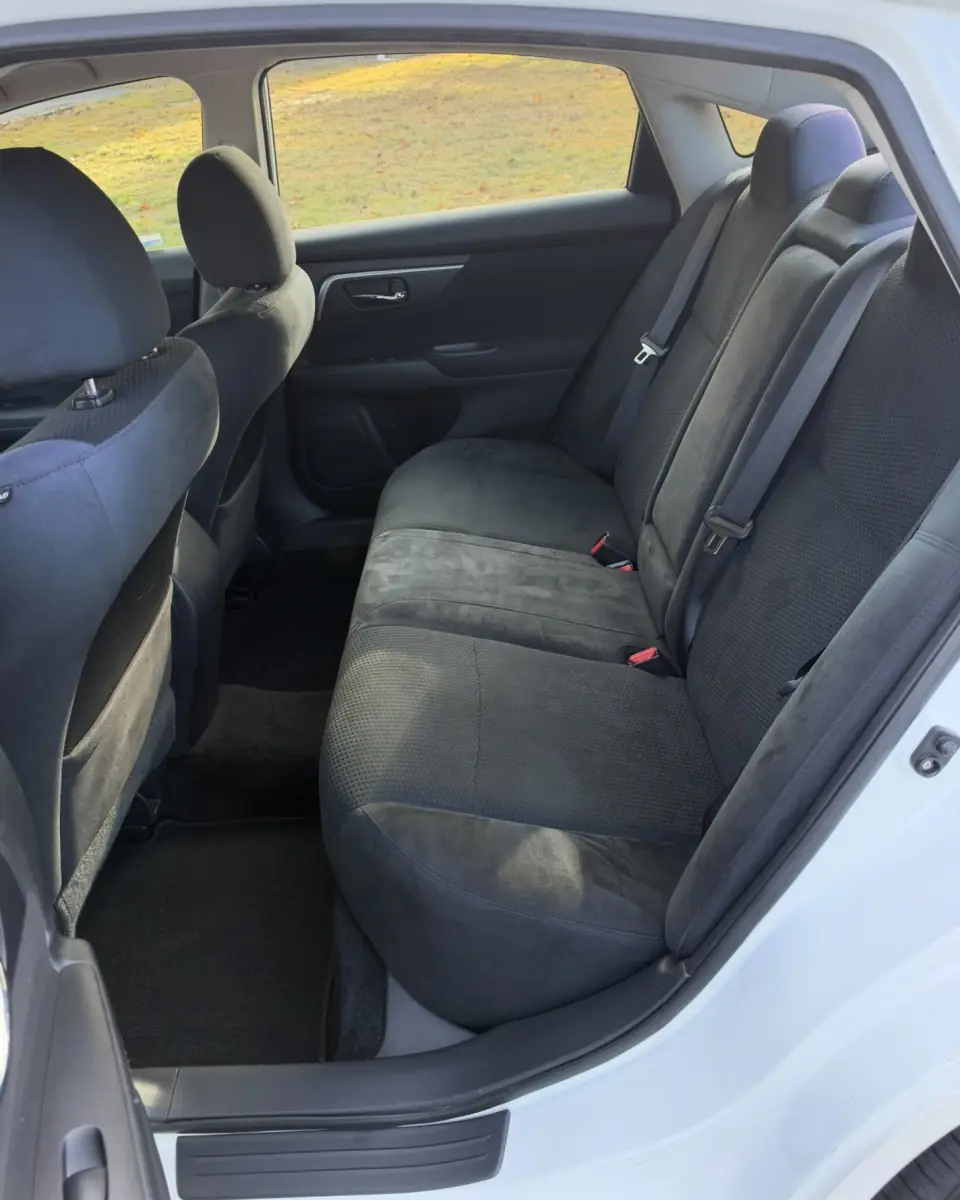
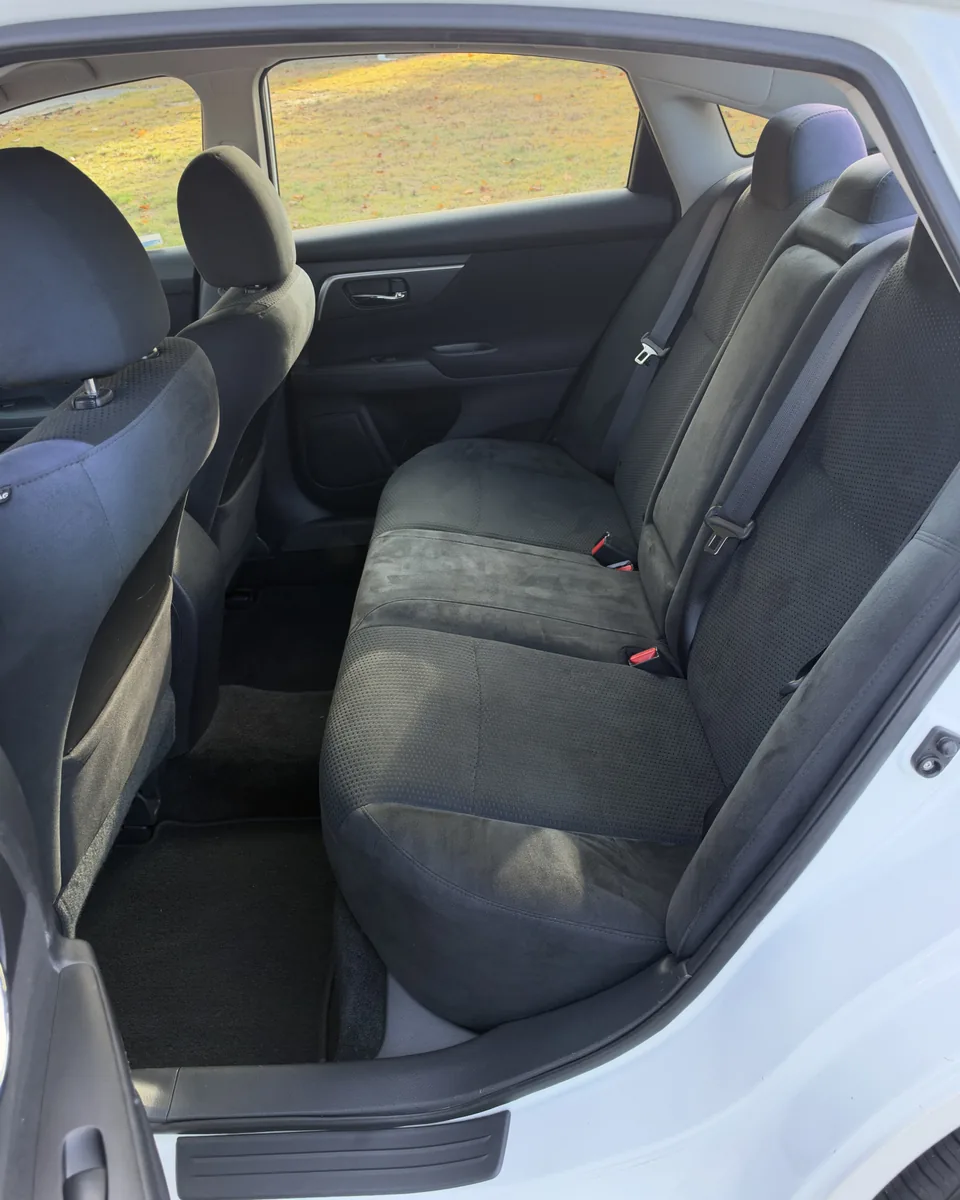
Results: Altima photos rebuilt from Nick's full-size originals
- Befores were 768x1024 copies (shrunk on upload) and got upscaled; now from the 12 MP / 48 MP originals:
  aligned on small copies, applied at full size, cropped 4:5, exported 960x1200 + 1440x1800 (-hd) WebP
- Sharper versions served via srcset to phones and high-res screens (shots with hd only; RAV4 unchanged)
- Hidden: plate through the windshield, the hanging photo of a person (dash before), VIN stickers, houses
  in the background of the front-seat shots
- New tag moved to the subtitle line so "Nissan Altima" never wraps next to the car arrows on phones

Claude-Session: https://claude.ai/code/session_0183BChXuPMpx71hwD56EnPD

diff --git a/public/index.html b/public/index.html
@@ -990,7 +990,8 @@ body.bk-open main, body.bk-open header.nav, body.bk-open footer, body.bk-open .p
 .res-meta h3 { margin: 0; font-size: 24px; letter-spacing: -.01em; }
 .res-car { display: flex; align-items: center; justify-content: space-between; gap: 10px; }
 .res-car h3 { min-width: 0; display: flex; align-items: center; gap: 8px; flex-wrap: wrap; }
-.res-car h3 .new { font-size: 10px; font-weight: 700; letter-spacing: .08em; text-transform: uppercase; color: var(--on-accent); background: var(--accent); padding: 2px 7px; border-radius: 999px; }
+.res-meta p .new { display: inline-block; vertical-align: 2px; margin-right: 8px; line-height: 1.5; }
+.res-car h3 .new, .res-meta p .new { font-size: 10px; font-weight: 700; letter-spacing: .08em; text-transform: uppercase; color: var(--on-accent); background: var(--accent); padding: 2px 7px; border-radius: 999px; }
 .res-carnav { display: flex; align-items: center; gap: 2px; flex: none; margin: -6px -8px -6px 0; font-size: 13px; font-weight: 600; color: var(--muted); }
 .res-carnav[hidden] { display: none; }
 .res-carnav button { width: 40px; height: 40px; border: 0; border-radius: 50%; background: transparent; color: var(--fg); display: grid; place-items: center; cursor: pointer; }
@@ -1972,8 +1973,8 @@ footer { border-top: 1px solid var(--line); padding-block: 48px 64px; color: var
       <div class="res reveal" id="res">
         <div class="res-stage">
           <div class="ba" id="ba">
-            <img class="layer after" id="baAfter" src="img/r-rav4-dash-after.webp" alt="" width="960" height="1200" loading="lazy" decoding="async">
-            <img class="layer before" id="baBefore" src="img/r-rav4-dash-before.webp" alt="" width="960" height="1200" loading="lazy" decoding="async">
+            <img class="layer after" id="baAfter" src="img/r-rav4-dash-after.webp" sizes="(min-width: 1120px) 640px, (min-width: 761px) calc(100vw - 460px), calc(100vw - 32px)" alt="" width="960" height="1200" loading="lazy" decoding="async">
+            <img class="layer before" id="baBefore" src="img/r-rav4-dash-before.webp" sizes="(min-width: 1120px) 640px, (min-width: 761px) calc(100vw - 460px), calc(100vw - 32px)" alt="" width="960" height="1200" loading="lazy" decoding="async">
             <button type="button" class="label l" data-snap="100">Before</button><button type="button" class="label r" data-snap="0">After</button>
             <div class="ba-car" id="baCar" aria-hidden="true"></div>
             <div class="handle" id="baHandle"><div class="knob"><svg width="20" height="20" viewBox="0 0 20 20"><path d="M7 5 L2 10 L7 15 M13 5 L18 10 L13 15" fill="none" stroke="currentColor" stroke-width="1.8" stroke-linecap="round" stroke-linejoin="round"/></svg></div></div>
@@ -4183,9 +4184,9 @@ footer { border-top: 1px solid var(--line); padding-block: 48px 64px; color: var
       { k: "rav4-rear", label: "Rear seats", alt: "Rear bench seat and floor of a Toyota RAV4" },
       { k: "rav4-ext", label: "Exterior", alt: "Front of a red Toyota RAV4 in a driveway" } ] },
     { id: "altima", name: "Nissan Altima", isNew: true, size: 0, pkg: "interior", shots: [
-      { k: "altima-dash", label: "Dash", alt: "Steering wheel, dash and driver seat of a Nissan Altima" },
-      { k: "altima-front", label: "Front seats", alt: "Driver seat and center console of a Nissan Altima, seen from the open door" },
-      { k: "altima-rear", label: "Rear seats", alt: "Rear bench seat and floor of a Nissan Altima" } ] }
+      { k: "altima-dash", hd: 1440, label: "Dash", alt: "Steering wheel, dash and driver seat of a Nissan Altima" },
+      { k: "altima-front", hd: 1440, label: "Front seats", alt: "Driver seat and center console of a Nissan Altima, seen from the open door" },
+      { k: "altima-rear", hd: 1440, label: "Rear seats", alt: "Rear bench seat and floor of a Nissan Altima" } ] }
   ];
   document.querySelector(".res-jobs").style.display = "none";   // cars switch from the title row and the photo arrows (no extra space)
   if (JOBS.length > 1) { document.getElementById("resH").textContent = "Real jobs. Real driveways."; document.getElementById("resP").textContent = "Real photos from recent Apex details, never retouched. Drag the slider to see the difference."; document.getElementById("resCarNav").hidden = false; }
@@ -4203,6 +4204,9 @@ footer { border-top: 1px solid var(--line); padding-block: 48px 64px; color: var
     var job = JOBS[ji], shot = job.shots[si];
     cur = { job: ji, shot: si };
     var go = function () {
+      // photos with a full-size original also come in a sharper version for big / high-res screens (shot.hd = its width)
+      var set = function (tag) { return shot.hd ? "img/r-" + shot.k + "-" + tag + ".webp 960w, img/r-" + shot.k + "-" + tag + "-hd.webp " + shot.hd + "w" : ""; };
+      after.srcset = set("after"); before.srcset = set("before");
       after.src = "img/r-" + shot.k + "-after.webp"; before.src = "img/r-" + shot.k + "-before.webp";
       after.alt = shot.alt + ", after the detail"; before.alt = shot.alt + ", before the detail";
       var done = 0, fin = function () { if (++done === 2) ba.classList.remove("swap"); };
@@ -4211,9 +4215,9 @@ footer { border-top: 1px solid var(--line); padding-block: 48px 64px; color: var
     if (quiet) go(); else { ba.classList.add("swap"); setTimeout(go, 180); }
     count.textContent = (si + 1) + " / " + job.shots.length;
     nav.classList.toggle("single", JOBS.reduce(function (n, j) { return n + j.shots.length; }, 0) < 2);
-    document.getElementById("resTitle").innerHTML = job.name + (job.isNew && JOBS.length > 1 ? '<span class="new">New</span>' : "");
+    document.getElementById("resTitle").textContent = job.name;
     document.getElementById("resCarN").textContent = (ji + 1) + " of " + JOBS.length;
-    document.getElementById("resSub").textContent = SIZES[job.size] + " · " + NAMES[job.pkg];
+    document.getElementById("resSub").innerHTML = (job.isNew && JOBS.length > 1 ? '<span class="new">New</span>' : "") + SIZES[job.size] + " · " + NAMES[job.pkg];   // tag on the subtitle line so the title never wraps on phones
     // this job's own package and size (audit IA-042)
     window.__resPrice = function () { var j = JOBS[cur.job], now = pkgPrice(j.pkg, j.size), reg = REG[j.pkg][j.size]; document.querySelector(".res-price > span").textContent = NAMES[j.pkg] + " · " + VEH[j.size] + " from"; document.getElementById("resPrice").textContent = "$" + now; var rg = document.getElementById("resReg"); rg.textContent = "$" + reg; rg.hidden = now >= reg; };
     window.__resPrice();
